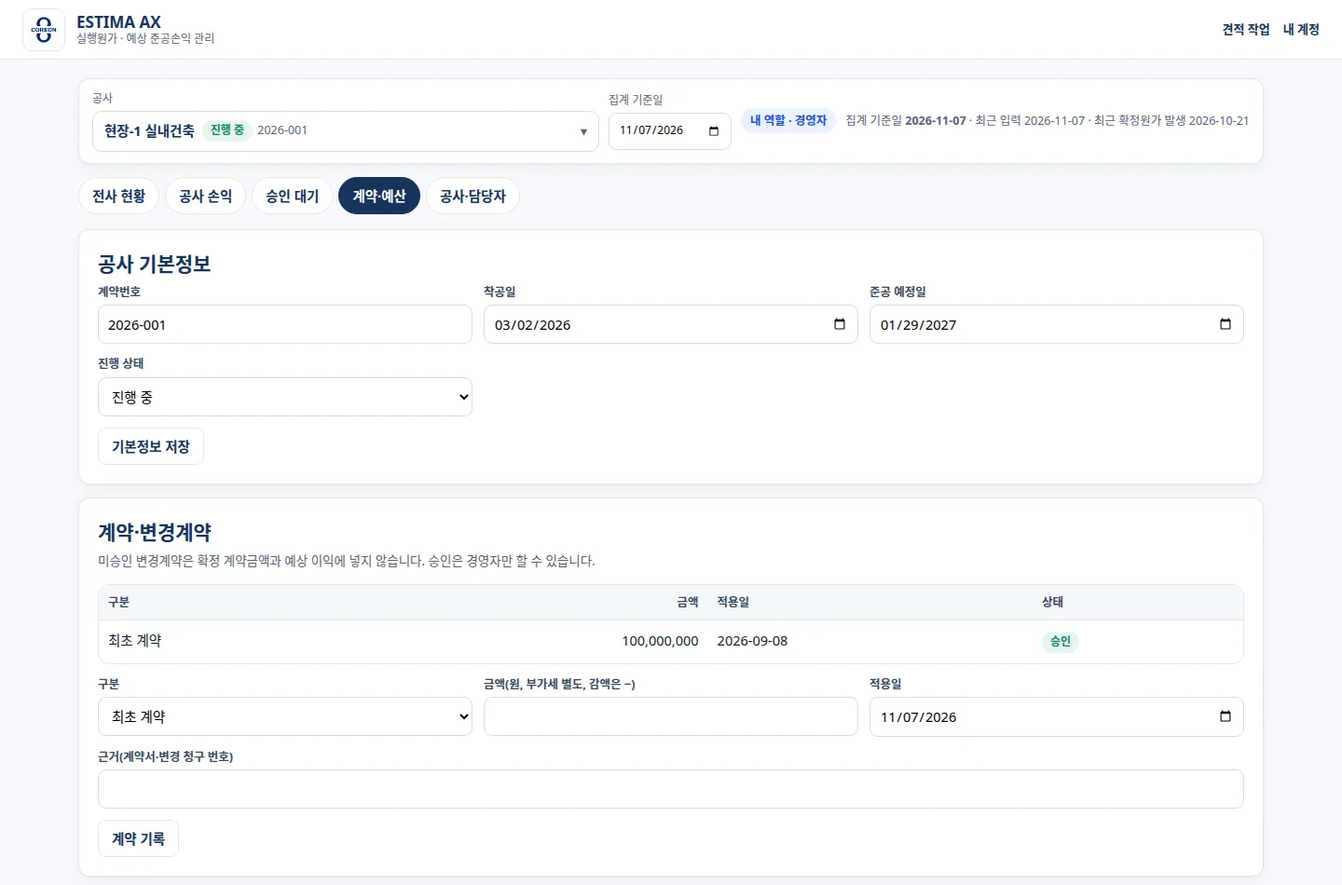
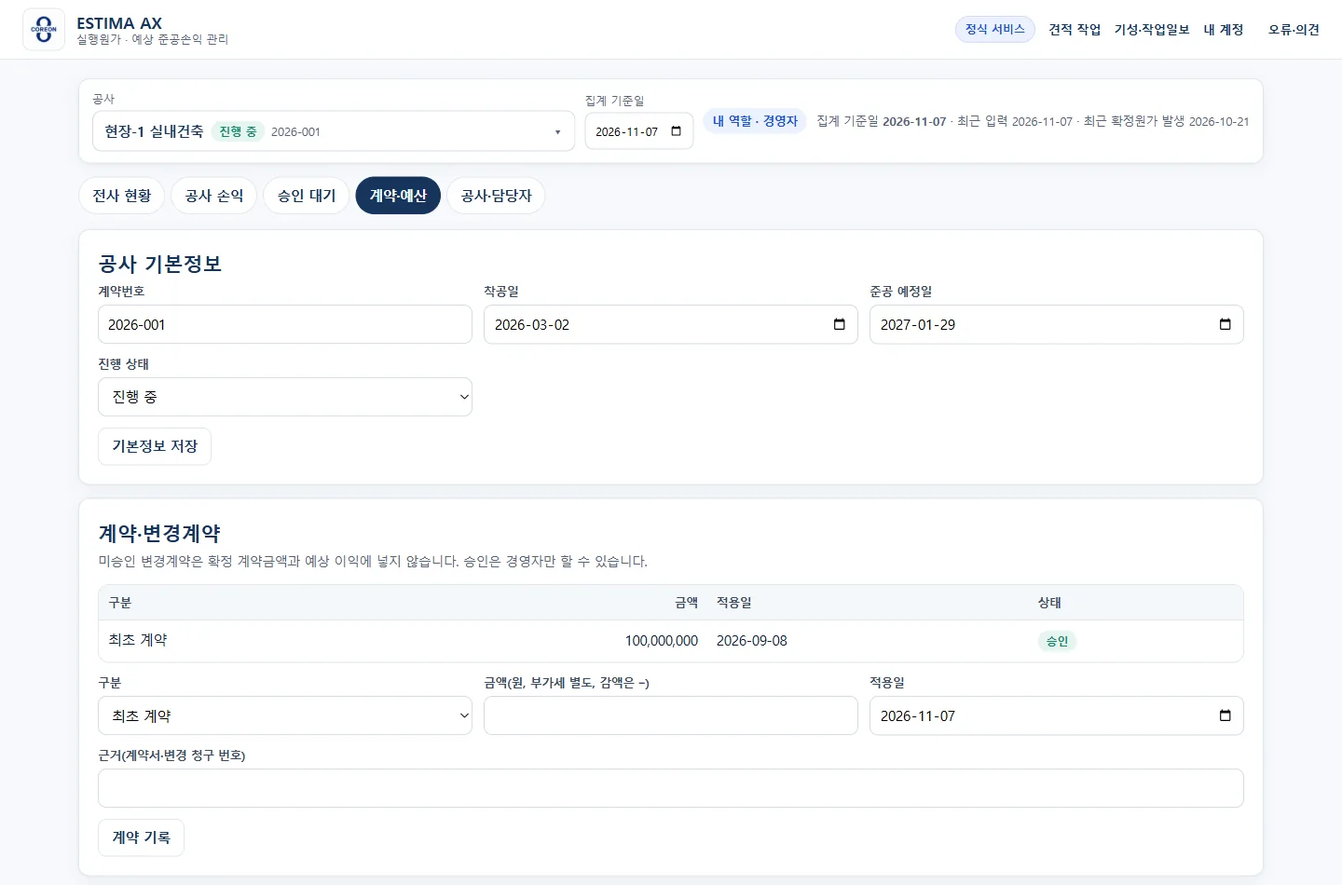
ESTIMA AX 소개: '개발 중'·준비 중 표기 정리, 운영 서비스 화면으로 재촬영
대표 지시(2026-11-07 2번·3번).
- 상태표·통합 페이지·요금제: 개발 중/준비 중 행·문구 삭제, '제공 상태'로 명칭 정리, 기성·작업일보·검토승인 '현재 제공'(운영 역할별 흐름 확인 근거)
- 화면: 경영자 전사 현황·공사 손익·계약예산·검토 대기·인테리어 품목·무료 체험 진단을 운영 서비스(estima.coreon-global.com)에서 재촬영, 공유 썸네일 재생성
- 모바일 원가 입력(390) 화면은 운영 머리글 결함 수정 승인 후 재촬영 예정(기존 이미지 유지)

Created with [Perplexity](https://www.perplexity.ai/computer/tasks/bb8b4692-d57f-4eb1-946b-fb27a1733f3d)

diff --git a/estima-ax.html b/estima-ax.html
@@ -106,7 +106,7 @@ footer{background:#081629;color:#9FB3C8;font-size:13px;padding:34px 0 44px;margi
 </head>
 <body>
 <header class="header"><div class="w nav"><a class="brand" href="/"><img src="/assets/coreon-logo.png" alt="COREON 로고"><span>COREON<small>주식회사 코레온홀딩스</small></span></a>
-<nav class="links" aria-label="COREON 제품군"><a href="/">Safety AX Agent</a><a href="/estima-ax.html" aria-current="page">ESTIMA AX</a><a href="/coreon-integrated.html">통합 구매</a><a href="#plans">요금제</a><a href="#status">개발·제공 상태</a></nav>
+<nav class="links" aria-label="COREON 제품군"><a href="/">Safety AX Agent</a><a href="/estima-ax.html" aria-current="page">ESTIMA AX</a><a href="/coreon-integrated.html">통합 구매</a><a href="#plans">요금제</a><a href="#status">제공 상태</a></nav>
 <div class="actions"><a class="pill" href="https://estima.coreon-global.com/account" rel="noopener" data-path="service-top">고객 로그인</a><a class="pill dark hide-s" href="mailto:contact@coreon-global.com?subject=COREON%20ESTIMA%20AX%20%EC%83%81%EB%8B%B4%20%EC%8B%A0%EC%B2%AD&body=source%3Destima-consult-top">상담·시연</a></div></div></header>
 <main>
 <section class="hero" id="top"><div class="w hg">
@@ -142,7 +142,7 @@ footer{background:#081629;color:#9FB3C8;font-size:13px;padding:34px 0 44px;margi
 <section class="s alt sec" id="plans"><div class="w">
 <span class="k">PRICING</span>
 <h2>요금제 <span class="tag t-ok">계좌이체 판매 중</span></h2>
-<p class="note">구매 전에 <a href="#limits">지원 범위·제한</a>과 <a href="#status">기능별 개발·제공 상태</a>를 확인해 주십시오. 공종별 기능 설명은 이 요금제 아래에 이어집니다.</p>
+<p class="note">구매 전에 <a href="#limits">지원 범위·제한</a>과 <a href="#status">기능별 제공 상태</a>를 확인해 주십시오. 공종별 기능 설명은 이 요금제 아래에 이어집니다.</p>
 <p class="note">월 기준 공급가액이며 부가세 10%는 별도입니다. 괄호 안은 부가세 포함 금액입니다. 1·3·6·12개월 단위로 신청하며 금액은 월 요금 × 개월 수입니다.</p>
 <div class="plans" role="list" aria-label="요금제">
 <div class="plan" role="listitem"><span class="nm">기본형</span><p class="pr">49,000원 <small>/월</small></p><p class="vat">(53,900원)</p><p class="sc">1인 · 견적 월 20건</p><p class="use">자기 회사 업무용</p></div>
@@ -159,7 +159,6 @@ footer{background:#081629;color:#9FB3C8;font-size:13px;padding:34px 0 44px;margi
 <p style="margin:12px 0 0"><a href="https://estima.coreon-global.com/terms" rel="noopener" data-path="terms">이용약관</a> · <a href="https://estima.coreon-global.com/privacy" rel="noopener" data-path="privacy">개인정보처리방침</a></p></div></details>
 <details open><summary>결제 방법</summary><div class="body"><div class="tblw"><table aria-label="결제 방법"><thead><tr><th>방법</th><th>상태</th><th>안내</th></tr></thead><tbody>
 <tr><td>계좌이체(회사 명의 법인계좌)</td><td><span class="tag t-ok">이용 가능</span></td><td>로그인 → 계정 → 이용권·결제에서 요금제·기간을 고르면 입금 계좌와 정확한 금액(부가세 포함), 입금 기한(7일)이 표시됩니다. 회사가 입금을 확인한 뒤 이용권이 시작되고, 전자세금계산서를 발행합니다.</td></tr>
-<tr><td>카드·간편결제(카카오페이·네이버페이 등)</td><td><span class="tag t-dev">준비 중</span></td><td>결제대행사 계약 후 엽니다. 지금은 청구되지 않습니다.</td></tr>
 </tbody></table></div></div></details>
 </div></section>
 
@@ -180,7 +179,7 @@ footer{background:#081629;color:#9FB3C8;font-size:13px;padding:34px 0 44px;margi
 <li>제한: 확인한 인테리어 양식 계열에서만 검증했습니다. 양식에 따라 HOLD 품목이 많을 수 있으며, HOLD가 남은 견적은 확정 견적으로 내보내지 않습니다.</li></ul>
 <details style="margin:12px 0 0"><summary>인테리어 노무·원가 계산식 보기</summary><div class="body"><ul><li>노무·원가 계산: 직종별 노무비 = 단위당 직종별 공량 × 해당 직종 노임단가 × 시공 수량. 노임은 사용자가 출처·기준일과 함께 입력하며, 노임 미입력·공량 미확인은 0원으로 계산하지 않고 HOLD로 둡니다.</li></ul></div></details></div>
 </div>
-<div class="frame" style="margin-top:22px"><span class="lab">기능 화면</span><img class="shot" src="/assets/estima/estima-ax-dev-interior-items-r8.webp" alt="인테리어 견적 작업 화면 — 품목 검토·HOLD 사유·공량 근거, 노임단가·재료비·원가계산서 단계" width="1440" height="900" loading="lazy"><p class="cap">인테리어 견적 작업 화면(2026-11-02 촬영). 예시 인테리어 공내역서 12개 품목. 근거 없는 공량·노임은 금액으로 만들지 않고 HOLD로 남깁니다.</p></div>
+<div class="frame" style="margin-top:22px"><span class="lab">기능 화면</span><img class="shot" src="/assets/estima/estima-ax-dev-interior-items-r8.webp" alt="인테리어 견적 작업 화면 — 품목 검토·HOLD 사유·공량 근거, 노임단가·재료비·원가계산서 단계" width="1440" height="900" loading="lazy"><p class="cap">인테리어 견적 작업 화면(2026-11-07 운영 서비스 촬영). 예시 인테리어 공내역서 12개 품목. 근거 없는 공량·노임은 금액으로 만들지 않고 HOLD로 남깁니다.</p></div>
 </div></section>
 
 <section class="s alt sec" id="cost"><div class="w">
@@ -276,7 +275,7 @@ footer{background:#081629;color:#9FB3C8;font-size:13px;padding:34px 0 44px;margi
 <div class="vwrap"><button type="button" class="vplay" data-yt="xt0-p4-Od2k" aria-label="COREON ESTIMA AX 소개 영상 재생"><img src="/assets/estima/estima-ax-beta-shorts-poster-20261103.webp" alt="COREON ESTIMA AX 소개 영상 첫 화면 — 전기·통신·소방·인테리어" width="540" height="960" loading="lazy"><span class="vbtn" aria-hidden="true">&#9654;</span></button></div>
 <p class="cap">실제 프로그램 화면으로 만든 영상입니다. 화면 속 회사·현장·금액은 예시입니다. 전기·통신·소방·인테리어 견적과 실행원가·경영관제는 회사 계정에서 제공합니다.</p>
 <a class="btn g" href="https://youtube.com/shorts/xt0-p4-Od2k" target="_blank" rel="noopener" data-path="shorts">YouTube에서 보기</a></div>
-<div class="frame"><span class="lab">운영 서비스 화면</span><img class="shot" src="/assets/estima/estima-ax-sample-diag-r6.webp" alt="ESTIMA AX 무료 체험 화면 — 원본 결함 진단 단계" width="1356" height="580" loading="lazy"><p class="cap">운영 중인 무료 체험의 원본 결함 진단 화면(2026-11-02)입니다.</p></div>
+<div class="frame"><span class="lab">운영 서비스 화면</span><img class="shot" src="/assets/estima/estima-ax-sample-diag-r6.webp" alt="ESTIMA AX 무료 체험 화면 — 원본 결함 진단 단계" width="1356" height="580" loading="lazy"><p class="cap">운영 중인 무료 체험의 원본 결함 진단 화면(2026-11-07)입니다.</p></div>
 </div>
 </div></section>
 
@@ -285,7 +284,7 @@ footer{background:#081629;color:#9FB3C8;font-size:13px;padding:34px 0 44px;margi
 <section class="s sec" id="limits"><div class="w">
 <span class="k">SCOPE · LIMITS</span>
 <h2>지원 범위와 제한</h2>
-<div class="notice"><b>읽기 전에</b> — 네 영역 모두 회사 계정에서 사용할 수 있습니다. 지원 양식이 제한되고 HOLD 항목이 남을 수 있으며, 결과는 담당자가 검토한 뒤 사용해야 합니다. 유료 이용권은 계좌이체로 판매하며, 회사가 입금을 확인한 뒤에 시작합니다. 카드·간편결제는 준비 중입니다. 무료 체험(30일·작업 5건)은 끝나도 동의 없이 유료로 바뀌지 않습니다. 도면 견적은 제공하지 않습니다. 기능별 상태는 <a href="#status">개발·제공 상태표</a>에서 확인하십시오.</div>
+<div class="notice"><b>읽기 전에</b> — 네 영역 모두 회사 계정에서 사용할 수 있습니다. 지원 양식이 제한되고 HOLD 항목이 남을 수 있으며, 결과는 담당자가 검토한 뒤 사용해야 합니다. 유료 이용권은 계좌이체로 판매하며, 회사가 입금을 확인한 뒤에 시작합니다. 무료 체험(30일·작업 5건)은 끝나도 동의 없이 유료로 바뀌지 않습니다. 도면 견적은 제공하지 않습니다. 기능별 상태는 <a href="#status">제공 상태표</a>에서 확인하십시오.</div>
 <div class="grid">
 <div class="card"><h3>사용 전에 확인할 점</h3><ul>
 <li>단가·노임·일반관리비율·이윤율은 제공하지 않습니다. 고객이 입력하고 근거를 기록합니다.</li>
@@ -298,9 +297,9 @@ footer{background:#081629;color:#9FB3C8;font-size:13px;padding:34px 0 44px;margi
 <li>회사(조직)별로 작업을 분리하고, 보관기간(7일)이 지난 견적 작업은 삭제합니다.</li></ul></div>
 </div>
 
-<h3 id="status" class="sec" style="margin-top:44px;font-size:24px">개발·제공 상태</h3>
-<p style="color:var(--muted);font-size:14px;margin-top:-2px">기준일 2026-11-07(운영 버전 v1.0.0). 실행원가·경영관제와 인테리어의 "현재 제공" 항목은 운영 서비스에서 전기·통신·소방·인테리어 시험 자료로 업무 흐름 시험을 통과한 기능입니다. 고객 자료에서 확인되는 문제는 계속 수정합니다. <span class="tag t-ok">현재 제공</span> 운영 서비스에서 이용 가능 · <span class="tag t-hold">일부 양식 지원</span> 일부 양식에서만 운영 제공, 검증 계속 · <span class="tag t-hold">제공 · 검증 계속</span> 승인된 회사 계정에서 운영 제공, 고객 사용 결과로 검증 계속 · <span class="tag t-dev">개발 중</span> 개발환경에서만 시험, 운영 미제공, 공개 일정 미정</p>
-<div class="tblw"><table aria-label="기능별 개발·제공 상태"><thead><tr><th>영역</th><th>기능</th><th>상태</th><th>범위·제한</th></tr></thead><tbody>
+<h3 id="status" class="sec" style="margin-top:44px;font-size:24px">제공 상태</h3>
+<p style="color:var(--muted);font-size:14px;margin-top:-2px">기준일 2026-11-07(운영 버전 v1.0.0). 실행원가·경영관제와 인테리어의 "현재 제공" 항목은 운영 서비스에서 전기·통신·소방·인테리어 시험 자료로 업무 흐름 시험을 통과한 기능입니다. 고객 자료에서 확인되는 문제는 계속 수정합니다. <span class="tag t-ok">현재 제공</span> 운영 서비스에서 이용 가능 · <span class="tag t-hold">일부 양식 지원</span> 일부 양식에서만 운영 제공, 검증 계속 · <span class="tag t-hold">제공 · 검증 계속</span> 승인된 회사 계정에서 운영 제공, 고객 사용 결과로 검증 계속</p>
+<div class="tblw"><table aria-label="기능별 제공 상태"><thead><tr><th>영역</th><th>기능</th><th>상태</th><th>범위·제한</th></tr></thead><tbody>
 <tr><td rowspan="10">공종별 견적</td><td>공내역서 업로드·양식 판별·원본 결함 진단</td><td><span class="tag t-ok">현재 제공</span></td><td>XLSX만 지원(xls·xlsm 미지원). 지원하지 않는 양식은 업로드 단계에서 사유를 안내합니다.</td></tr>
 <tr><td>동일 자재 합산·단가 일괄 반영</td><td><span class="tag t-ok">현재 제공</span></td><td>이름·규격이 비슷하다는 이유만으로 같은 자재로 확정하지 않습니다. 애매한 품목은 HOLD로 남깁니다.</td></tr>
 <tr><td>회사 단가 장부</td><td><span class="tag t-ok">현재 제공</span></td><td>장부를 고쳐도 이미 만든 견적의 금액은 바뀌지 않습니다.</td></tr>
@@ -309,22 +308,20 @@ footer{background:#081629;color:#9FB3C8;font-size:13px;padding:34px 0 44px;margi
 <tr><td>노임·원가계산서 연결</td><td><span class="tag t-hold">일부 양식 지원</span></td><td>조달청 소방형 계열만 지원합니다. 노임은 고객이 출처·기준일과 함께 입력하며, 빈 칸은 0원이 아니라 미입력으로 표시합니다.</td></tr>
 <tr><td>인테리어 공내역 견적·2026 표준품셈 근거 확인</td><td><span class="tag t-ok">현재 제공</span></td><td>매칭이 불명확하면 공량을 만들지 않고 HOLD로 둡니다.</td></tr>
 <tr><td>인테리어 노무·공량·일위대가·원가계산 엔진</td><td><span class="tag t-ok">현재 제공</span></td><td>노임 미입력·공량 미확인은 0원으로 계산하지 않습니다. 제비율은 사용자가 근거와 함께 입력합니다.</td></tr>
-<tr><td>2026 전기·소방·정보통신 품셈 추가 대조 규칙</td><td><span class="tag t-ok">현재 제공</span></td><td>표가 그대로 맞는 품목만 노무량 반영. 준용 후보는 자동 확정하지 않습니다. 운영 서비스 확인은 전기·소방 시험용 공내역서 기준이며, 정보통신 규칙은 개발환경 시험까지 마쳤습니다.</td></tr>
+<tr><td>2026 전기·소방·정보통신 품셈 추가 대조 규칙</td><td><span class="tag t-ok">현재 제공</span></td><td>표가 그대로 맞는 품목만 노무량 반영. 준용 후보는 자동 확정하지 않습니다. 운영 서비스에서 전기·소방·정보통신 시험용 공내역서로 확인했습니다.</td></tr>
 <tr><td>견적 Excel 생성 정보 시트</td><td><span class="tag t-ok">현재 제공</span></td><td>맨 끝 시트에만 추가하며 기존 시트·수식은 바꾸지 않습니다.</td></tr>
 <tr><td rowspan="5">실행원가 관리</td><td>견적 확정본 → 공사 최초 견적 연결</td><td><span class="tag t-ok">현재 제공</span></td><td>확정된 견적 차수만 연결하며, 연결해도 실행예산은 자동으로 만들지 않습니다.</td></tr>
 <tr><td>견적 품목 단위 원장 연결</td><td><span class="tag t-ok">현재 제공</span></td><td>품목 이름·규격·단위·수량을 연결합니다. 단가가 빠진 품목은 금액을 만들지 않습니다.</td></tr>
 <tr><td>계약·변경계약·실행예산</td><td><span class="tag t-ok">현재 제공</span></td><td>미승인 변경계약은 확정 계약금액에서 제외합니다.</td></tr>
 <tr><td>발생원가·잔여 예상원가·EAC</td><td><span class="tag t-ok">현재 제공</span></td><td>확정된 원가만 누적합니다.</td></tr>
-<tr><td>기성 관리·작업일보</td><td><span class="tag t-hold">제공 · 검증 계속</span></td><td>기성 기준표·회차 작성·검토·확정, 기성청구서 Excel·PDF, 청구·승인·수금, 작업일보·출역·현장 사진. 근로자 성명 입력은 기본 꺼짐입니다. 운영 서비스 확인은 1인 회사(단독 승인) 기준이며, 여러 사용자의 역할별 흐름은 확인 전입니다.</td></tr>
-<tr><td>검토·승인</td><td>역할별 권한·직무 분리·단독 승인 옵션·기록</td><td><span class="tag t-hold">제공 · 검증 계속</span></td><td>현장 입력 → 공무 검토 → 권한자 확정 → 경영자 조회.</td></tr>
+<tr><td>기성 관리·작업일보</td><td><span class="tag t-ok">현재 제공</span></td><td>기성 기준표·회차 작성·검토·확정, 기성청구서 Excel·PDF, 청구·승인·수금, 작업일보·출역·현장 사진. 근로자 성명 입력은 기본 꺼짐입니다. 운영 서비스에서 경영자·공무·관리·현장·협력사 역할별 흐름으로 확인했습니다.</td></tr>
+<tr><td>검토·승인</td><td>역할별 권한·직무 분리·단독 승인 옵션·기록</td><td><span class="tag t-ok">현재 제공</span></td><td>현장 입력 → 공무 검토 → 권한자 확정 → 경영자 조회. 작성자 본인 검토·권한 밖 확정은 막습니다.</td></tr>
 <tr><td rowspan="3">경영관제</td><td>수주 전 실익 분석(손익분기·목표 견적금액)</td><td><span class="tag t-ok">현재 제공</span></td><td>일반관리비·이윤율·고정비는 고객이 입력합니다.</td></tr>
 <tr><td>전사 현황·공사 손익·현장 비교·위험 표시</td><td><span class="tag t-ok">현재 제공</span></td><td>근거가 부족한 공사는 HOLD로 두고 이익을 표시하지 않습니다.</td></tr>
 <tr><td>공정회의 Excel·PDF 보고서</td><td><span class="tag t-ok">현재 제공</span></td><td>집계 기준일과 미확정 항목을 함께 표시합니다.</td></tr>
-<tr><td rowspan="4">이용·결제</td><td>요금제(기본형·회사형·전문 견적)</td><td><span class="tag t-ok">확정</span></td><td>월 공급가액 49,000·149,000·290,000원, 부가세 별도.</td></tr>
+<tr><td rowspan="3">이용·결제</td><td>요금제(기본형·회사형·전문 견적)</td><td><span class="tag t-ok">확정</span></td><td>월 공급가액 49,000·149,000·290,000원, 부가세 별도.</td></tr>
 <tr><td>계좌이체 이용권·환불</td><td><span class="tag t-ok">현재 제공</span></td><td>입금 확인 후 시작, 자동 갱신 없음. 환불·초과 입금 반환은 3영업일 안에 송금합니다.</td></tr>
-<tr><td>카드·간편결제·정기결제</td><td><span class="tag t-dev">준비 중</span></td><td>결제대행사 계약 후 시작합니다. 지금은 청구되지 않습니다.</td></tr>
 <tr><td>회사 자료 내려받기·삭제</td><td><span class="tag t-hold">제공 · 검증 계속</span></td><td>회사 소유자만 실행할 수 있습니다. 내려받기는 운영 서비스에서 확인했고, 삭제는 삭제 대상 미리보기까지 확인했습니다.</td></tr>
-<tr><td>도면</td><td>도면(PDF·DXF) 견적</td><td><span class="tag t-dev">개발 중</span></td><td>제공하지 않습니다.</td></tr>
 </tbody></table></div>
 <p style="color:var(--muted);font-size:14px">확인한 견적 양식 계열: 일반 단가형, 이지테크형, 조달청 소방형(개발환경과 운영 시험, 공개 자료·시험 자료 기준). 모든 공내역서 양식을 지원하지는 않으며, 한 양식에서 확인한 결과를 다른 양식에 그대로 적용하지 않습니다. Microsoft Excel에서의 재계산 확인은 진행 중입니다.</p>
 </div></section>
@@ -337,7 +334,7 @@ footer{background:#081629;color:#9FB3C8;font-size:13px;padding:34px 0 44px;margi
 <li>사용 중인 공내역서 양식 유형과 공종을 알려 주시면 지원 여부를 먼저 확인하고 화면 공유 시연을 안내합니다. 문의 단계에서는 공사자료를 받지 않습니다.</li>
 <li>화면의 "오류·개선 보고"로 접수된 의견을 검토해 단계별로 개선하고 버전을 갱신합니다.</li></ul>
 <a class="btn p" href="mailto:contact@coreon-global.com?subject=COREON%20ESTIMA%20AX%20%EC%83%81%EB%8B%B4%20%EC%8B%A0%EC%B2%AD&body=source%3Destima-consult">상담·시연 신청(이메일)</a></div>
-<div class="family"><div><span class="k">COREON 제품군</span><h3 style="margin:6px 0 0">안전관리와 함께 쓰시나요?</h3><p>COREON Safety AX Agent와 ESTIMA AX를 한 번의 상담·계약으로 함께 도입할 수 있습니다. 두 제품의 데이터 연결은 개발 중입니다.</p></div><div><a class="btn p" href="/coreon-integrated.html" data-path="integrated-bottom">통합 구매 안내</a></div></div>
+<div class="family"><div><span class="k">COREON 제품군</span><h3 style="margin:6px 0 0">안전관리와 함께 쓰시나요?</h3><p>COREON Safety AX Agent와 ESTIMA AX를 한 번의 상담·계약으로 함께 도입할 수 있습니다. 두 제품은 제품별 계정으로 이용합니다.</p></div><div><a class="btn p" href="/coreon-integrated.html" data-path="integrated-bottom">통합 구매 안내</a></div></div>
 </div>
 </div></section>
 </main>

diff --git a/pricing.html b/pricing.html
@@ -3,6 +3,6 @@
 <h1>위험을 찾는 데서 끝내지 않고,<br>조치가 끝났음을 증명합니다.</h1>
 <p class="lead">COREON은 발견된 위험이 담당자 지정, 조치, 사진 증빙, 별도 확인을 거쳐 실제로 종결되었는지 기록으로 남기는 프로그램입니다. 요금은 사용량이 아니라 종결을 책임지는 현장 수로 정합니다.</p>
 <section class="grid"><article class="card"><h2>Safety Start</h2><div class="aud">먼저 써 보는 1개 현장</div><div class="price">0원<small></small></div><div class="sub">무료 · 카드 등록 없음</div><ul><li>현장 1곳, 관리자 3명</li><li>위험 제보 → 담당·기한 → 조치 → 증빙 → 확인 종결</li><li>현장 근로자 무제한</li></ul><a class="btn p" href="https://app.coreon-global.com/signup.html">무료로 시작</a></article><article class="card hl"><h2>Safety Core</h2><div class="aud">법정 절차까지 기록하는 단일 현장</div><div class="price">월 199,000원<small></small></div><div class="sub">VAT 별도 · 연간 선납 시 10개월분(1,990,000원)</div><ul><li>현장 1곳, 관리자 10명</li><li>위험성평가 정기·수시·근로자 참여 기록</li><li>반기 점검·경영책임자 확인, 작업중지 요청</li><li>작성자·확인자를 분리한 증빙 종결</li><li>관리자 2단계 인증(MFA)</li></ul><a class="btn p" href="mailto:contact@coreon-global.com?subject=COREON%20Safety%20AX%20%EA%B2%AC%EC%A0%81%20%EC%9A%94%EC%B2%AD">도입 문의</a></article><article class="card"><h2>Safety Operations</h2><div class="aud">여러 현장과 협력사를 함께</div><div class="price">월 490,000원<small></small></div><div class="sub">VAT 별도 · 현장 5곳 포함 · 연간 선납 시 10개월분</div><ul><li>Core 전체 기능</li><li>현장 5곳, 관리자 50명</li><li>협력사별 미종결·기한초과·증빙 공백 현황</li><li>우선 지원</li></ul><a class="btn" href="mailto:contact@coreon-global.com?subject=COREON%20Safety%20AX%20%EA%B2%AC%EC%A0%81%20%EC%9A%94%EC%B2%AD">도입 문의</a></article><article class="card"><h2>Enterprise · 공공</h2><div class="aud">대기업·다사업장·공공기관</div><div class="price">별도 견적<small></small></div><div class="sub">범위·구축·연계에 따라 산정</div><ul><li>다사업장·조직 권한</li><li>API 연동, 맞춤 보고</li><li>실증(PoC)과 기존 기록 진단</li><li>계약·보안 문서(DPA·SLA) 협의</li></ul><a class="btn" href="mailto:contact@coreon-global.com?subject=COREON%20Safety%20AX%20%EA%B2%AC%EC%A0%81%20%EC%9A%94%EC%B2%AD">견적 요청</a></article></section>
-<div class="box"><h3>추가 현장과 연간 선납</h3><ul><li>추가 현장: 월 89,000원(VAT 별도)</li><li>연간 선납: 월 요금의 10개월분을 받습니다(2개월 무료).</li><li>출시 가격은 가입일부터 12개월간 유지합니다. 이후 가격이 바뀌면 30일 전에 알리고 다음 갱신부터 적용합니다.</li></ul></div><div class="box" id="buy-options"><h3>3가지 구매 선택지</h3><ul><li>Safety AX Agent 단독: 이 페이지의 요금(VAT 별도)</li><li>ESTIMA AX 단독: 기본형 월 49,000원 · 회사형 월 149,000원 · 전문 견적 월 290,000원(부가세 별도), <a href="/estima-ax.html#plans">ESTIMA AX 요금</a></li><li>두 제품 함께(통합 구매): 각 제품 요금의 합계, 별도 할인 없음. 상담·견적서·계약은 1건으로 진행하고, 이용권은 입금 확인 후 제품별로 시작합니다. 예: Safety Core + ESTIMA 회사형 = 월 348,000원(VAT 별도). <a href="/coreon-integrated.html">통합 구매 안내</a></li></ul><p>두 제품 사이의 단일 로그인·현장 정보 연결은 개발 중이며, 현재는 제품별 계정·약관으로 제공합니다.</p></div>
+<div class="box"><h3>추가 현장과 연간 선납</h3><ul><li>추가 현장: 월 89,000원(VAT 별도)</li><li>연간 선납: 월 요금의 10개월분을 받습니다(2개월 무료).</li><li>출시 가격은 가입일부터 12개월간 유지합니다. 이후 가격이 바뀌면 30일 전에 알리고 다음 갱신부터 적용합니다.</li></ul></div><div class="box" id="buy-options"><h3>3가지 구매 선택지</h3><ul><li>Safety AX Agent 단독: 이 페이지의 요금(VAT 별도)</li><li>ESTIMA AX 단독: 기본형 월 49,000원 · 회사형 월 149,000원 · 전문 견적 월 290,000원(부가세 별도), <a href="/estima-ax.html#plans">ESTIMA AX 요금</a></li><li>두 제품 함께(통합 구매): 각 제품 요금의 합계, 별도 할인 없음. 상담·견적서·계약은 1건으로 진행하고, 이용권은 입금 확인 후 제품별로 시작합니다. 예: Safety Core + ESTIMA 회사형 = 월 348,000원(VAT 별도). <a href="/coreon-integrated.html">통합 구매 안내</a></li></ul><p>두 제품은 제품별 계정·약관으로 제공합니다.</p></div>
 <div class="box"><h3>지금 쓰는 엑셀 위험성평가표부터 점검해 보세요</h3><p>파일을 올리면 개정 산업안전보건법 제36조와 시행규칙 기준으로 빠진 기록을 행 단위로 찾아 드립니다. 파일은 저장하지 않으며, 법률 판단이 아닌 기록 점검입니다.</p><a class="btn p" href="https://app.coreon-global.com/ra-diagnosis.html">무료 자가진단</a></div>
 <p class="note">표시 금액은 VAT 별도입니다. 장비·현장 설치·데이터 이전·맞춤 연계는 별도 견적입니다. COREON은 법적 책임의 면제를 보장하지 않으며, 의무 이행 기록과 증빙을 남기는 도구입니다. 문의: contact@coreon-global.com</p></main><script src="/assets/client-hardening.js?v=20260830-engineering-convergence" defer></script></body></html>

diff --git a/coreon-integrated.html b/coreon-integrated.html
@@ -4,7 +4,7 @@
 <meta charset="utf-8" />
 <meta name="viewport" content="width=device-width, initial-scale=1, viewport-fit=cover" />
 <title>COREON 통합 구매 | Safety AX Agent + ESTIMA AX</title>
-<meta name="description" content="COREON Safety AX Agent(안전 실행·종결 관리)와 COREON ESTIMA AX(공사 견적·실행원가·경영관제)를 각각 또는 함께 구매하는 방법. 두 제품의 데이터 연결은 개발 중이며, 현재는 제품별 계정·약관으로 제공합니다." />
+<meta name="description" content="COREON Safety AX Agent(안전 실행·종결 관리)와 COREON ESTIMA AX(공사 견적·실행원가·경영관제)를 각각 또는 함께 구매하는 방법. 두 제품은 제품별 계정·약관으로 제공합니다." />
 <meta name="robots" content="index,follow" />
 <meta name="theme-color" content="#081629" />
 <link rel="canonical" href="https://www.coreon-global.com/coreon-integrated.html" />
@@ -100,15 +100,12 @@ footer{background:#081629;color:#9FB3C8;font-size:13px;padding:34px 0 44px}foote
 
 <section class="s" id="now"><div class="w">
 <span class="k">WHAT IS AVAILABLE NOW</span>
-<h2>지금 제공하는 것과 개발 중인 것</h2>
-<div class="notice"><b>현재 상태</b> — 두 제품은 각각의 계정·로그인·약관·개인정보처리방침으로 제공합니다. 두 제품 사이에서 자료를 주고받지 않습니다. 아래 “개발 중” 항목은 운영 서비스에서 제공하지 않습니다.</div>
+<h2>지금 제공하는 것</h2>
+<div class="notice"><b>현재 상태</b> — 두 제품은 각각의 계정·로그인·약관·개인정보처리방침으로 제공합니다. 로그인은 제품별로 하며, 두 제품 사이에서 자료를 주고받지 않습니다.</div>
 <div class="tblw"><table class="st" aria-label="통합 기능 상태"><thead><tr><th>항목</th><th>상태</th><th>내용</th></tr></thead><tbody>
 <tr><td>한 번의 상담·견적서·계약</td><td><span class="tag t-ok">현재 제공</span></td><td>두 제품을 한 문서로 견적·계약합니다.</td></tr>
 <tr><td>Safety AX Agent 안전 실행·종결 관리</td><td><span class="tag t-ok">현재 제공</span></td><td>제품 범위와 제한은 Safety AX 페이지 기준입니다.</td></tr>
-<tr><td>ESTIMA AX 견적·실행원가·경영관제</td><td><span class="tag t-ok">현재 제공</span></td><td>기능별 상태는 ESTIMA AX 개발·제공 상태표 기준입니다.</td></tr>
-<tr><td>한 번의 로그인으로 두 제품 사용</td><td><span class="tag t-dev">개발 중</span></td><td>현재는 제품별로 로그인합니다.</td></tr>
-<tr><td>회사·현장 정보 연결</td><td><span class="tag t-dev">개발 중</span></td><td>같은 공사 현장을 두 제품에서 같은 현장으로 묶는 기능입니다.</td></tr>
-<tr><td>작업일보·출역과 TBM 연결</td><td><span class="tag t-dev">개발 중</span></td><td>ESTIMA AX 공사관리 업데이트와 함께 설계합니다. 자료 연결 전에 별도 동의를 받습니다.</td></tr>
+<tr><td>ESTIMA AX 견적·실행원가·경영관제</td><td><span class="tag t-ok">현재 제공</span></td><td>기능별 상태는 ESTIMA AX 제공 상태표 기준입니다.</td></tr>
 </tbody></table></div>
 <div class="grid" style="margin-top:20px">
 <div class="card"><h3>로그인</h3><ul><li><a href="https://app.coreon-global.com/login.html?source=coreon-integrated&next=%2Fsafety-workspace.html">Safety AX Agent 로그인</a></li><li><a href="https://estima.coreon-global.com/account" rel="noopener">ESTIMA AX 로그인</a></li></ul></div>
